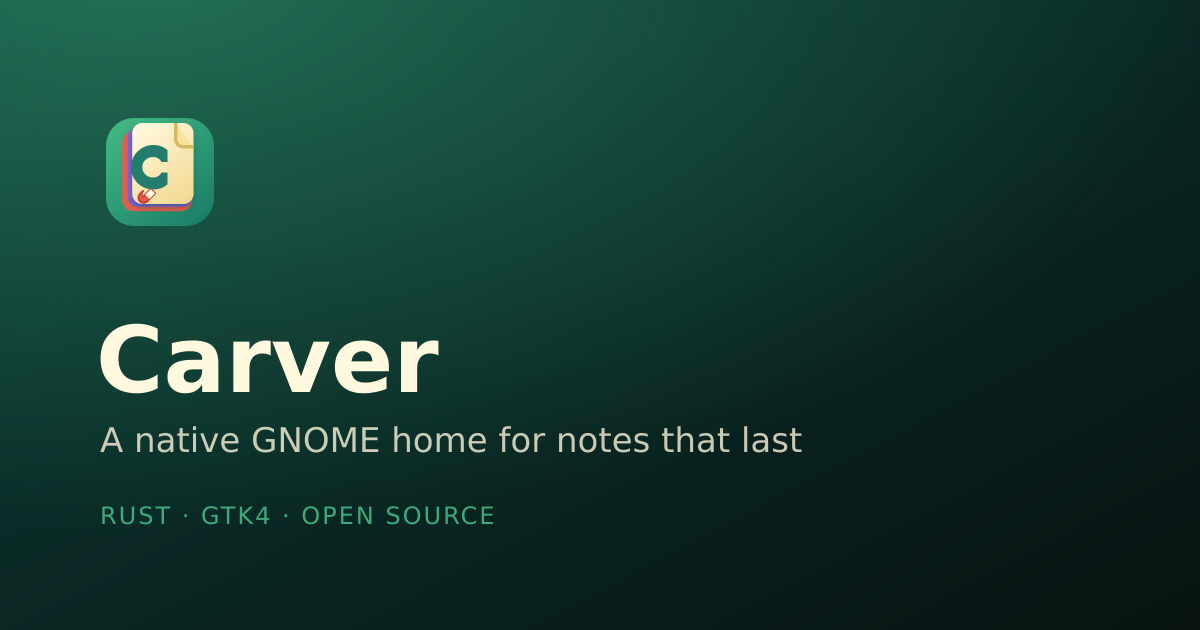
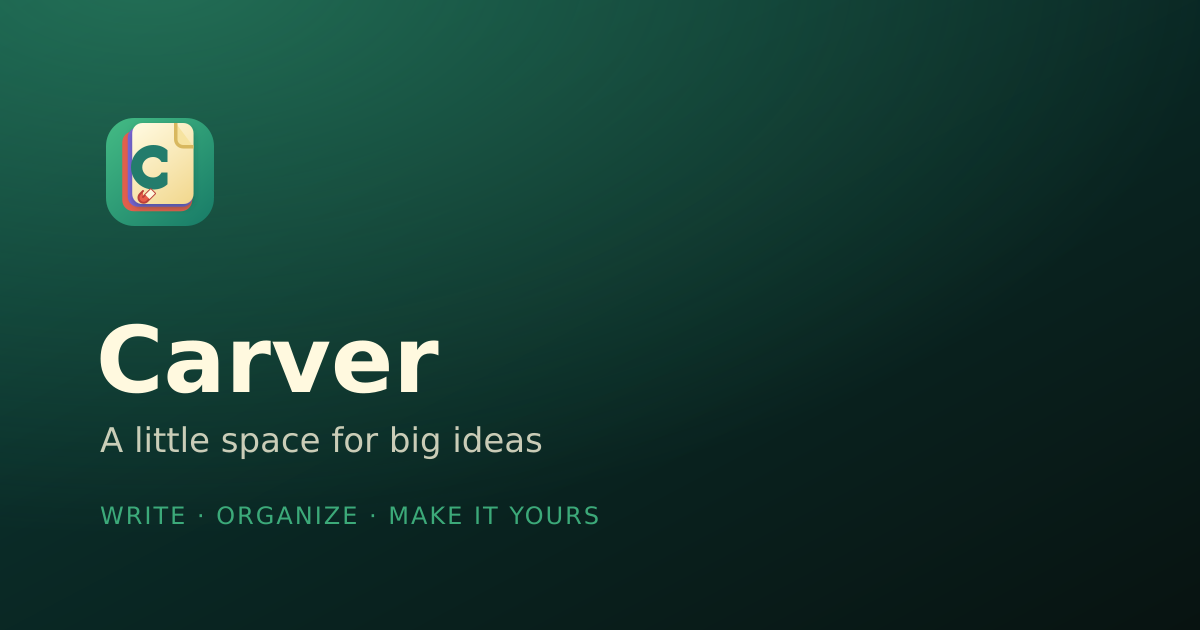
Make website copy more inviting and benefit-focused

Changed region(s): [[0.1233, 0.6635, 0.6783, 0.7238], [0.0617, 0.7841, 0.4933, 0.8444]]

diff --git a/docs/src/data/features.ts b/docs/src/data/features.ts
@@ -63,60 +63,60 @@ const configureCommands = [
 export const featureAreas: FeatureArea[] = [
   {
     id: 'editor',
-    label: 'Rich editor',
-    title: 'Write in a rich editor that respects your source',
-    teaser: 'Format as you write, in rich text or Carve.',
+    label: 'A place to write',
+    title: 'Get the thought down. Make it your own.',
+    teaser: 'Quick notes, long drafts, and everything between.',
     icon: 'pen',
     summary:
-      'Format notes the way you think: headings, inline styling, lists, tasks, links, and tables, with keyboard shortcuts throughout.',
+      'Start with a few words and see where they take you. Add headings, checklists, links, and tables to give your ideas shape as you go.',
     points: [
-      'Paste Carve directly, or use “Paste as Markdown” to migrate Markdown into canonical Carve.',
-      'Paste, resize, and keep managed images beside the note, then browse them from the media sidebar.',
-      'Switching between Edit, Source, and Preview never discards formatting or blank lines.',
+      'Keep your hands on the keyboard with familiar formatting shortcuts.',
+      'Paste images into your notes and resize them to fit your story.',
+      'Switch between writing, source editing, and preview as you work.',
     ],
     shot: shots.editor,
   },
   {
     id: 'source',
-    label: 'Carve source',
-    title: 'The source is yours, always readable',
-    teaser: 'Read and edit the canonical markup.',
+    label: 'Write your way',
+    title: 'Another way to put your thoughts on the page',
+    teaser: 'Prefer plain text? Make yourself at home.',
     icon: 'code',
     summary:
-      'Drop into Carve source whenever you want full control. The source editor highlights markup, follows breadcrumbs, and searches within the note, while the preview stays read-only.',
+      'For those who enjoy writing in plain text, Carver offers a source editor using Carve markup. See your words and their formatted preview side by side.',
     points: [
-      'Canonical .crv source with a synchronized split view.',
-      'Carve and Markdown import keep one consistent format instead of drifted syntax.',
+      'Move between the rich editor and source view without losing your work.',
+      'Bring in existing Carve or Markdown notes and keep writing.',
     ],
     code: { label: 'week.crv', code: carveSample },
     shot: shots.source,
   },
   {
     id: 'bases',
-    label: 'Saved Bases',
-    title: 'Turn scattered notes into a view',
-    teaser: "Views built from your notes' properties.",
+    label: 'See the bigger picture',
+    title: 'Give your notes a new perspective',
+    teaser: 'Bring related ideas into one view.',
     icon: 'table',
     summary:
-      'Build database-style views from the frontmatter already in your notes: choose the columns, filter and sort the rows, and search across the result.',
+      'Turn a collection of notes into an overview you can work with. Saved views, called Bases, let you arrange notes by their properties to keep projects and plans in sight.',
     points: [
-      'Frontmatter properties become sortable, filterable columns.',
-      'The same notes, arranged the way the work needs them.',
+      'Choose the columns that matter, then filter and sort to narrow your focus.',
+      'Explore your notes together without moving or duplicating them.',
     ],
     shot: shots.bases,
   },
   {
     id: 'agent',
-    label: 'Agent access',
-    title: 'Turn your notes into project context',
-    teaser: 'Let a local AI client read your notes.',
+    label: 'Connect your AI tools',
+    title: 'Start the conversation with your ideas',
+    teaser: 'Give your assistant useful context.',
     icon: 'sparkles',
     summary:
-      'Expose your library to local AI clients through a stdio MCP server, so an agent can search and read the context you already wrote instead of starting from an empty chat.',
+      'Connect a compatible AI assistant so it can find and read your notes. Bring your research and project context into the conversation without copying it all by hand.',
     points: [
-      'Read-only by default; opt into reversible note changes with --allow-write.',
-      'Works with Codex, Claude Code, GitHub Copilot, VS Code, OpenCode, or any stdio MCP client.',
-      'Local only: no listener, no telemetry, and never managed asset bytes.',
+      'Optional to set up, with read-only access by default. You decide whether to enable changes.',
+      'Works with tools such as Claude Code, Codex, GitHub Copilot, and OpenCode.',
+      'Your connected assistant may send note content to its AI provider as part of a conversation.',
     ],
     clients: [
       { name: 'Claude Code', logo: anthropic },
@@ -124,47 +124,47 @@ export const featureAreas: FeatureArea[] = [
       { name: 'Copilot', logo: copilot },
       { name: 'OpenCode', logo: opencode },
     ],
-    code: { label: 'Set up a client', code: configureCommands },
+    code: { label: 'Connect your preferred assistant', code: configureCommands },
     shot: shots.agent,
   },
   {
     id: 'library',
-    label: 'Library & Trash',
-    title: 'Organized, and hard to lose',
-    teaser: 'Categories, recent notes, and Trash.',
+    label: 'A little more order',
+    title: 'A home for every thought',
+    teaser: 'Keep your notes easy to come back to.',
     icon: 'folder',
     summary:
-      'Group notes into categories, jump back in through recently opened notes, and recover anything you removed from the Trash.',
+      'Gather notes into categories that make sense to you, from work projects to weekend plans. Recently opened notes help you pick up where you left off.',
     points: [
-      'Deleting a note soft deletes it and offers an Undo, so a slip never costs you writing.',
-      'Categories carry an icon and accent colour; every counter stays in step after a move.',
+      'Give categories their own icons and colours so they are easy to spot.',
+      'Changed your mind? Undo a deletion or restore a note from Trash.',
     ],
     shot: shots.library,
   },
   {
     id: 'search',
-    label: 'Search & export',
-    title: 'Find anything, take it anywhere',
-    teaser: 'Find anything, take it anywhere.',
+    label: 'Find it. Take it with you.',
+    title: 'Good ideas deserve to be found again',
+    teaser: 'Less searching, more picking up where you left off.',
     icon: 'search',
     summary:
-      'Full-text search across the library and search within a note. Bring writing in from Carve or Markdown, and send it back out in the format you need.',
+      'Find that useful detail across your library or inside a longer note. When your writing is ready for its next stop, export it in a format that fits.',
     points: [
-      'Fast full-text search backed by SQLite FTS5.',
-      'Export to Carve, Markdown, or PDF, or a portable archive for managed images.',
+      'Search the words inside your notes, even when the title escapes you.',
+      'Export as Markdown, PDF, or Carve, or bundle notes and images in a portable archive.',
     ],
   },
   {
     id: 'preferences',
-    label: 'Preferences',
-    title: 'Set it up to match how you work',
-    teaser: 'Tune the editor to your workflow.',
+    label: 'Make it yours',
+    title: 'Settle into your own writing rhythm',
+    teaser: 'A comfortable space, your way.',
     icon: 'sliders',
     summary:
-      'Choose your default editing mode, how source presentation behaves, whether remote images load, and which formatting controls appear.',
+      'Choose a light or dark theme, your preferred editing mode, and the formatting tools you want close at hand.',
     points: [
-      'Preferences are a plain TOML file under your XDG config directory.',
-      'Light and dark themes with accessible, keyboard-friendly controls throughout.',
+      'Open notes in the editing mode that feels right for you.',
+      'Choose whether images from the web load in your notes.',
     ],
     shot: shots.settings,
   },
